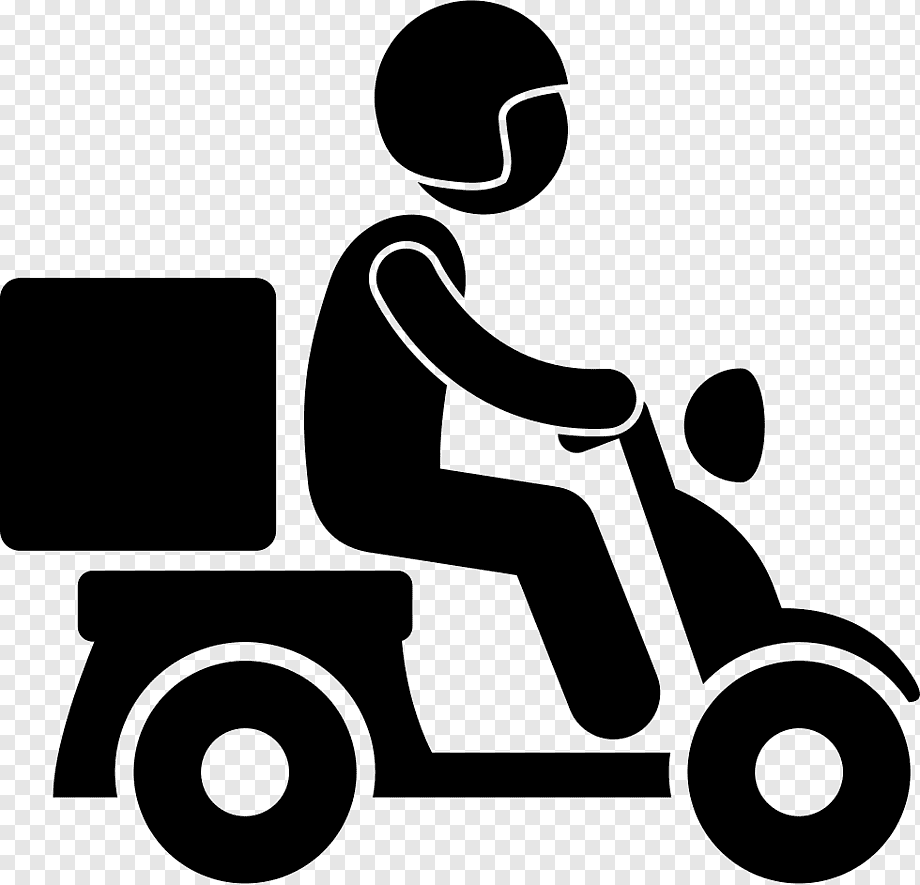
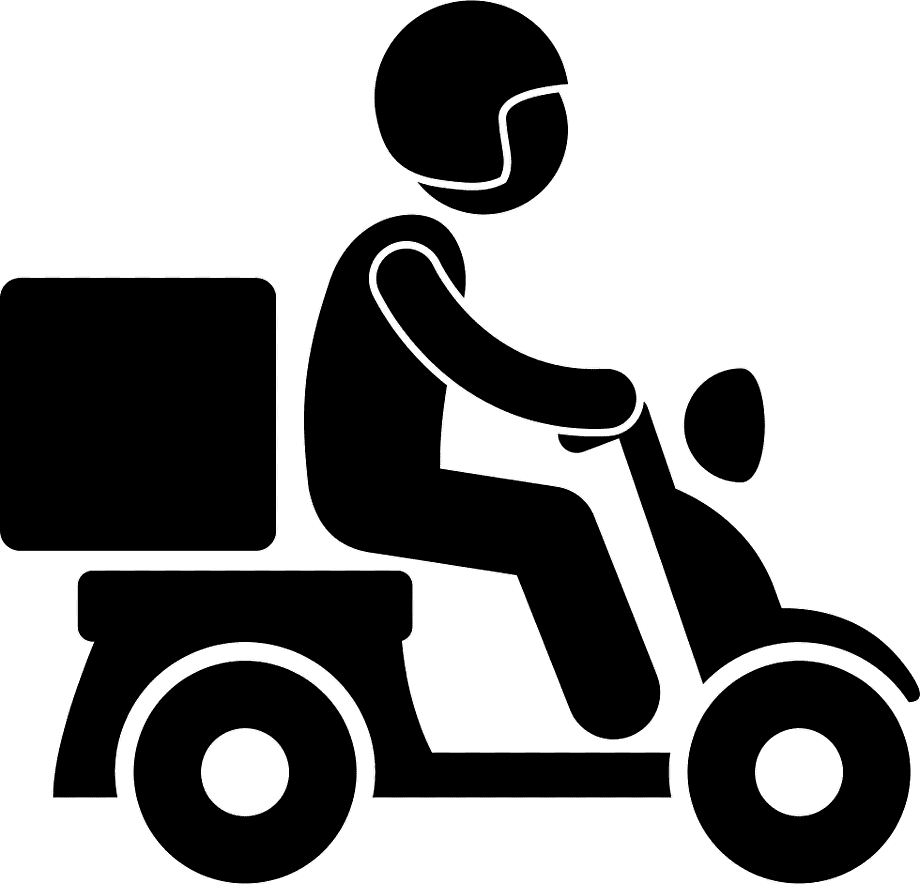
corregido el error mas retrasado de la historia(kiosco dejaba setear cantidad en 0) y corregida img deliv

diff --git a/Presentacion.Core/Kiosco/FormularioKiosco.cs b/Presentacion.Core/Kiosco/FormularioKiosco.cs
@@ -1,5 +1,6 @@
 using Presentacion.Core.Articulo;
 using Presentacion.Core.Cliente;
+using Presentacion.Core.Comprobante;
 using Presentacion.Core.Empleado;
 using Presentacion.FormulariosBase;
 using Presentacion.Helpers;
@@ -234,10 +235,15 @@ namespace Presentacion.Core.Kiosco
 
         private void SetCantidad(string codigo, decimal cantidad)
         {
+            if(cantidad == 0)
+            {
+                detalles.Remove(codigo);
+                return;
+            }
             if (detalles.TryGetValue(codigo, out DetalleComprobanteDTO det))
             {
-                Console.WriteLine(cantidad);
                 if (cantidad == 0) throw new Exception("No tendría que permitir producto con cantidad 0¿?");
+                
                 det.CantidadProducto = cantidad;
             } else
             {
@@ -290,12 +296,12 @@ namespace Presentacion.Core.Kiosco
         }
 
         private long consumidorFinalId = 2; // temporal, para no perder la referencia
-        private void Facturar()
+        private long? Facturar()
         {
             if (!VerificarDatosObligatorios())
             {
                 MessageBox.Show("error complete los datos");
-                return;
+                return null;
             }
 
             if (rbCtaCte.Checked)
@@ -303,7 +309,7 @@ namespace Presentacion.Core.Kiosco
                bool puede_continuar = _clienteServicio.DescontarDeCuenta(idCliente, nudTotal.Value);
                if (!puede_continuar) {      
                     MessageBox.Show("La cuenta del cliente no tiene suficiente saldo");
-                    return;
+                    return null;
                 }
             }
 
@@ -437,7 +443,9 @@ namespace Presentacion.Core.Kiosco
             }
 
             MessageBox.Show("Factura3", "Kiosco");
-            Close();
+
+            return (long?)comprobante_id;
+            //Close();
         }
 
         private void BtnFacturar_Click(object sender, EventArgs e)
@@ -451,7 +459,24 @@ namespace Presentacion.Core.Kiosco
             {
                 if (detalles.Count > 0)
                 {
-                    Facturar();
+                    long? comprobante_id = Facturar();
+                    if (comprobante_id != null)
+                    {
+                        const string message = "Desea imprimir/ver comprobante?";
+                        const string caption = "Comprobante";
+                        var result = MessageBox.Show(message, caption,
+                                                     MessageBoxButtons.YesNo,
+                                                     MessageBoxIcon.Question);
+
+                        if (result == DialogResult.Yes)
+                        {
+                            if (comprobante_id != null)
+                            {
+                                var f = new FormularioComprobante((long)comprobante_id);
+                                f.Show();
+                            }
+                        }
+                    }
                 }
                 else
                 {
@@ -472,10 +497,7 @@ namespace Presentacion.Core.Kiosco
 
         private void DgvGrilla_CellValueChanged(object sender, DataGridViewCellEventArgs e)
         {
-            int counter;
-            
-            //TODO que no acepte cero de cantidad(ninguno de los chequeos anda)
-            for (counter = 1; counter < (dgvGrilla.Rows.Count - 1); counter++)
+            for (int counter = 0; counter <= (dgvGrilla.Rows.Count - 1); counter++)
             {
                 string codigo = dgvGrilla.Rows[counter].Cells["CodigoProducto"].Value.ToString();
                 if (codigo != null)
